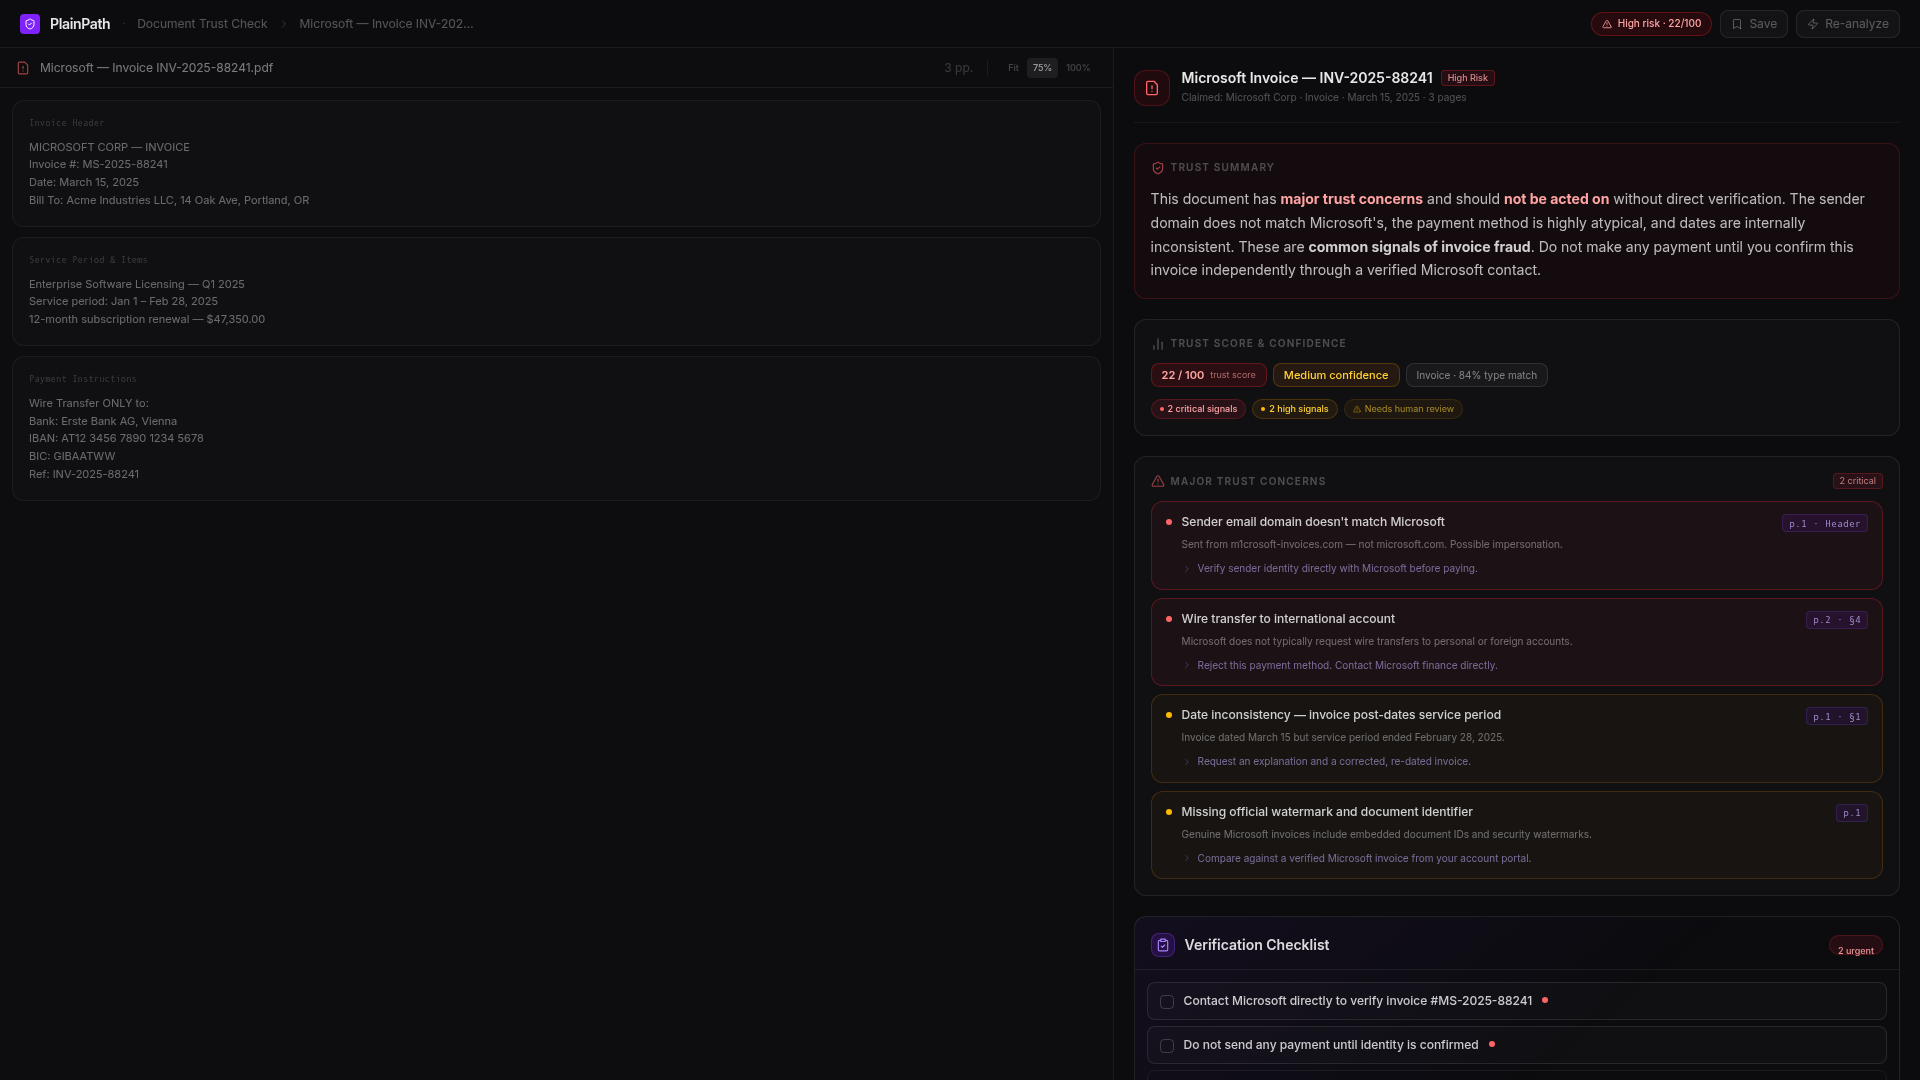
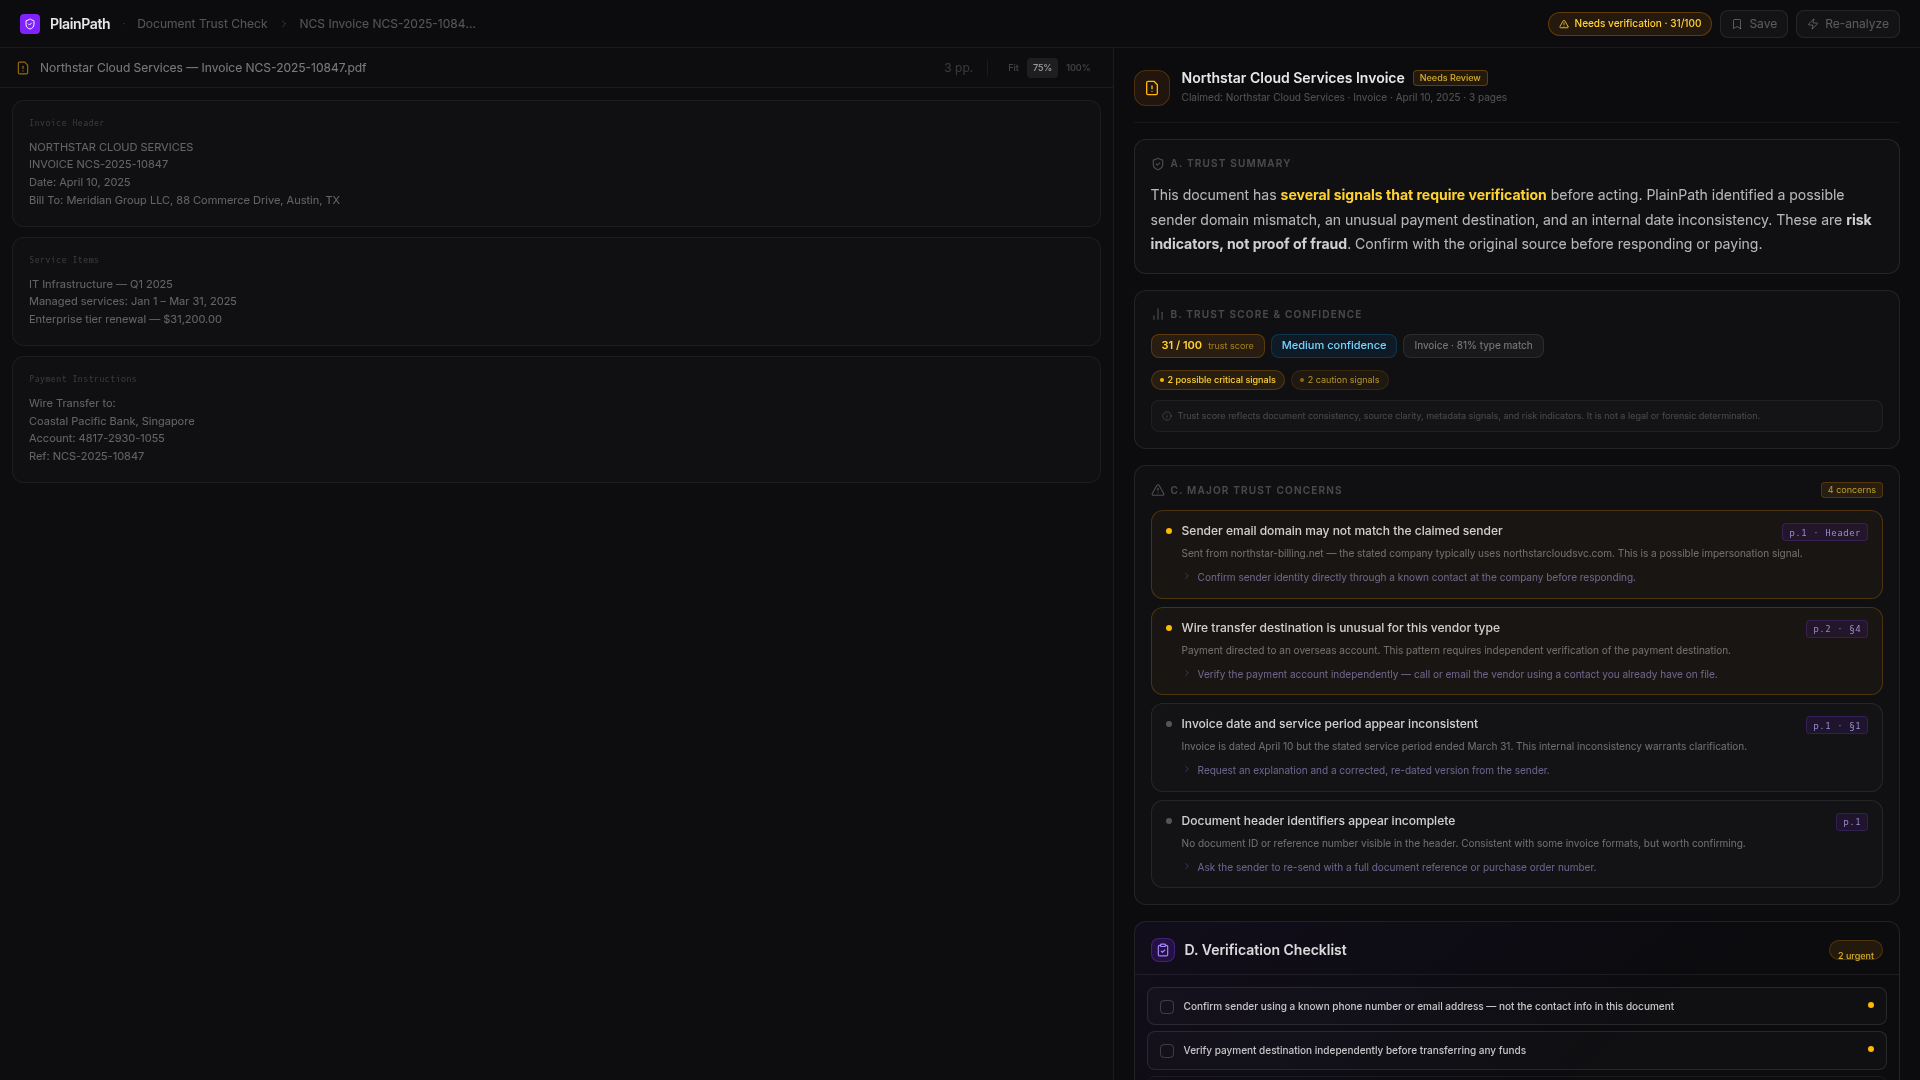
Update trust score label to "Needs verification"
Adjusted the "Needs review" label to "Needs verification" in TrustCheckCompleted.tsx and TrustCheckSourceActive.tsx to improve clarity regarding document trust signals.

Replit-Commit-Author: Agent
Replit-Commit-Session-Id: 23555f17-bc0e-4331-af2c-6135c340de43
Replit-Commit-Checkpoint-Type: full_checkpoint
Replit-Commit-Event-Id: c1b7a2e2-e8f4-4d0e-86be-f98b05bccebe
Replit-Commit-Screenshot-Url: https://storage.googleapis.com/screenshot-production-us-central1/885b88a3-2819-4ae4-a907-ae2c1eae3cdf/23555f17-bc0e-4331-af2c-6135c340de43/vuVgWyG
Replit-Helium-Checkpoint-Created: true

diff --git a/artifacts/mockup-sandbox/src/components/mockups/trust-check/TrustCheckSourceActive.tsx b/artifacts/mockup-sandbox/src/components/mockups/trust-check/TrustCheckSourceActive.tsx
@@ -49,7 +49,7 @@ export function TrustCheckSourceActive() {
         <div className="ml-auto flex items-center gap-2">
           <div className="h-6 px-2.5 rounded-full border flex items-center gap-1.5 bg-amber-600/12 border-amber-500/28 text-amber-300">
             <AlertTriangle className="w-2.5 h-2.5" />
-            <span className="text-[10px] font-medium">Needs review · 31/100</span>
+            <span className="text-[10px] font-medium">Needs verification · 31/100</span>
           </div>
           <button className="h-7 px-2.5 rounded-lg border border-white/[0.08] bg-white/[0.03] text-white/30 text-xs flex items-center gap-1.5">
             <Bookmark className="w-3 h-3" /><span>Save</span>

diff --git a/artifacts/mockup-sandbox/src/components/mockups/trust-check/TrustCheckCompleted.tsx b/artifacts/mockup-sandbox/src/components/mockups/trust-check/TrustCheckCompleted.tsx
@@ -114,7 +114,7 @@ export function TrustCheckCompleted() {
         <div className="ml-auto flex items-center gap-2">
           <div className="h-6 px-2.5 rounded-full border flex items-center gap-1.5 bg-amber-600/12 border-amber-500/28 text-amber-300">
             <AlertTriangle className="w-2.5 h-2.5" />
-            <span className="text-[10px] font-medium">Needs review · 31/100</span>
+            <span className="text-[10px] font-medium">Needs verification · 31/100</span>
           </div>
           <button className="h-7 px-2.5 rounded-lg border border-white/[0.08] bg-white/[0.03] text-white/30 text-xs flex items-center gap-1.5">
             <Bookmark className="w-3 h-3" /><span>Save</span>
